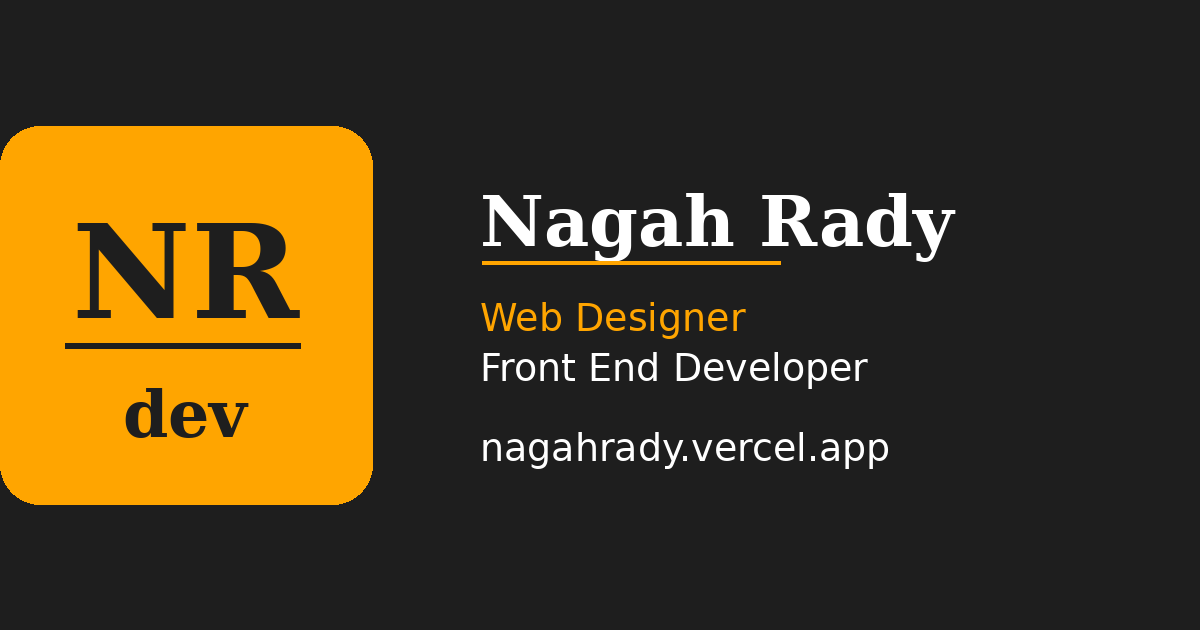
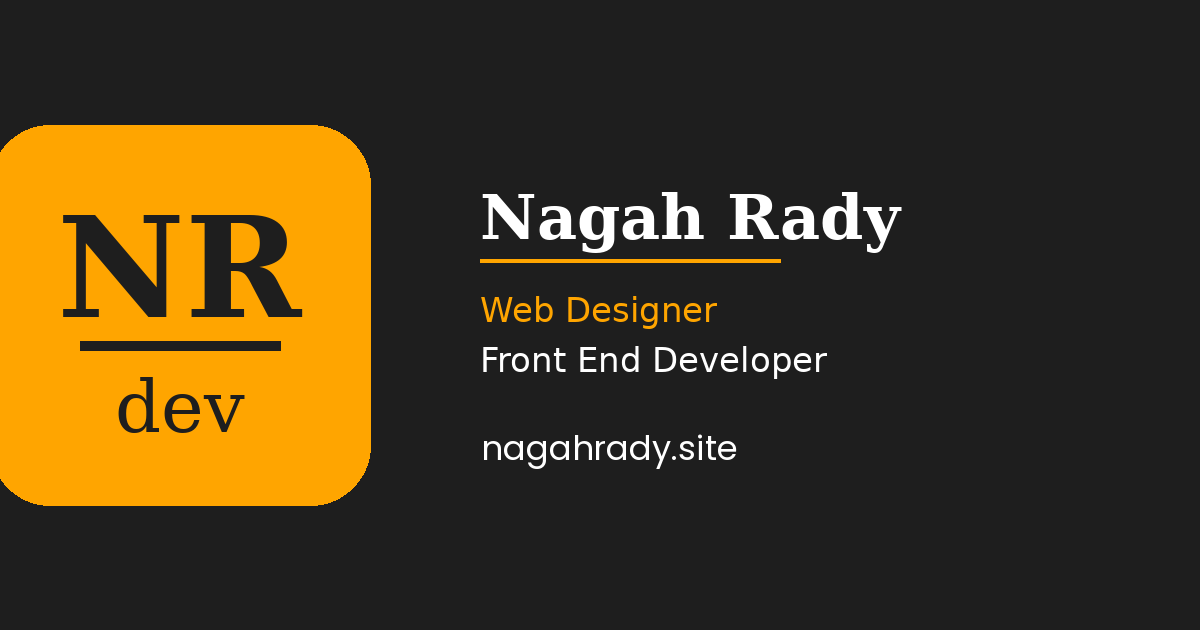
update links to match new domain

diff --git a/app/sitemap.js b/app/sitemap.js
@@ -1,6 +1,6 @@
 export default function sitemap() {
   const locales = ['en', 'ar'];
-  const baseUrl = 'https://nagahrady.vercel.app';
+  const baseUrl = 'https://nagahrady.site';
 
   return locales.map((locale) => ({
     url: `${baseUrl}/${locale}`,

diff --git a/app/robots.js b/app/robots.js
@@ -4,6 +4,6 @@ export default function robots() {
       userAgent: '*',
       allow: '/',
     },
-    sitemap: 'https://nagahrady.vercel.app/sitemap.xml',
+    sitemap: 'https://nagahrady.site/sitemap.xml',
   }
 }
